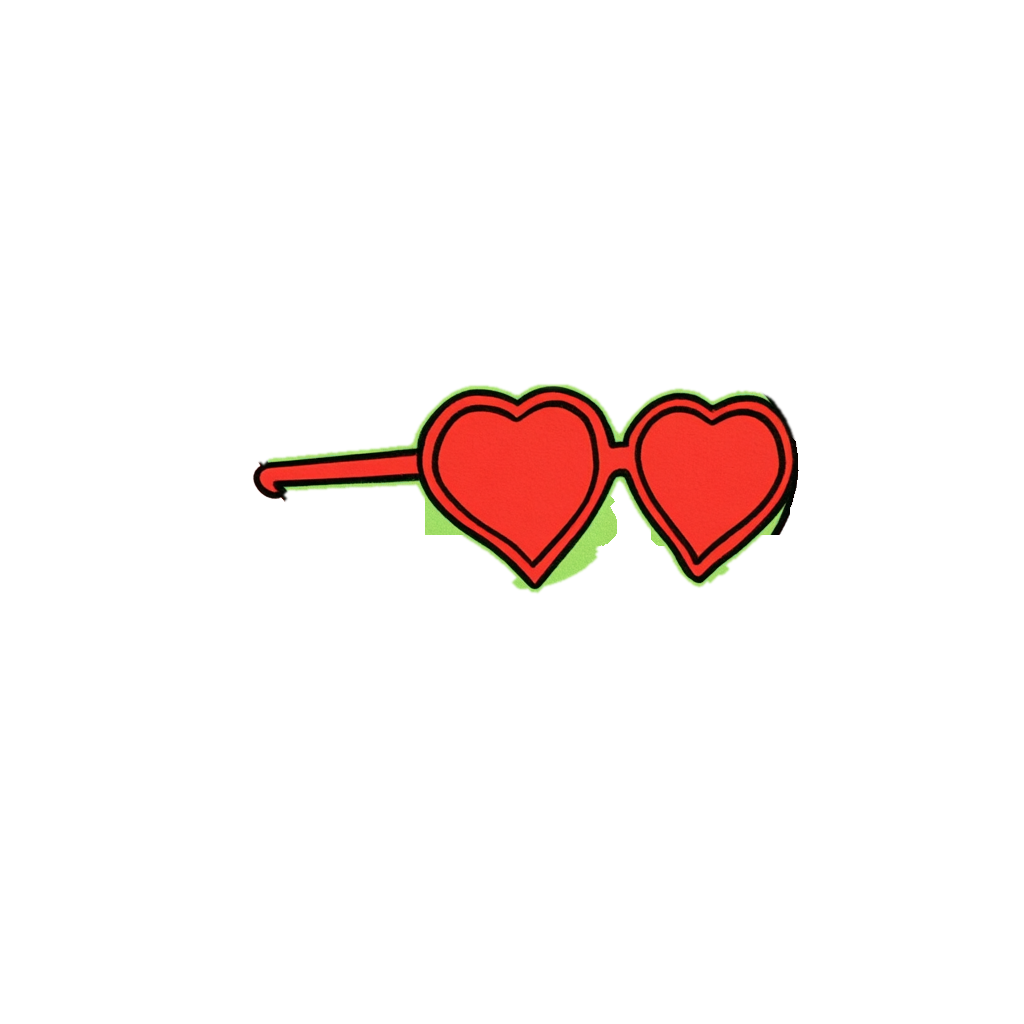
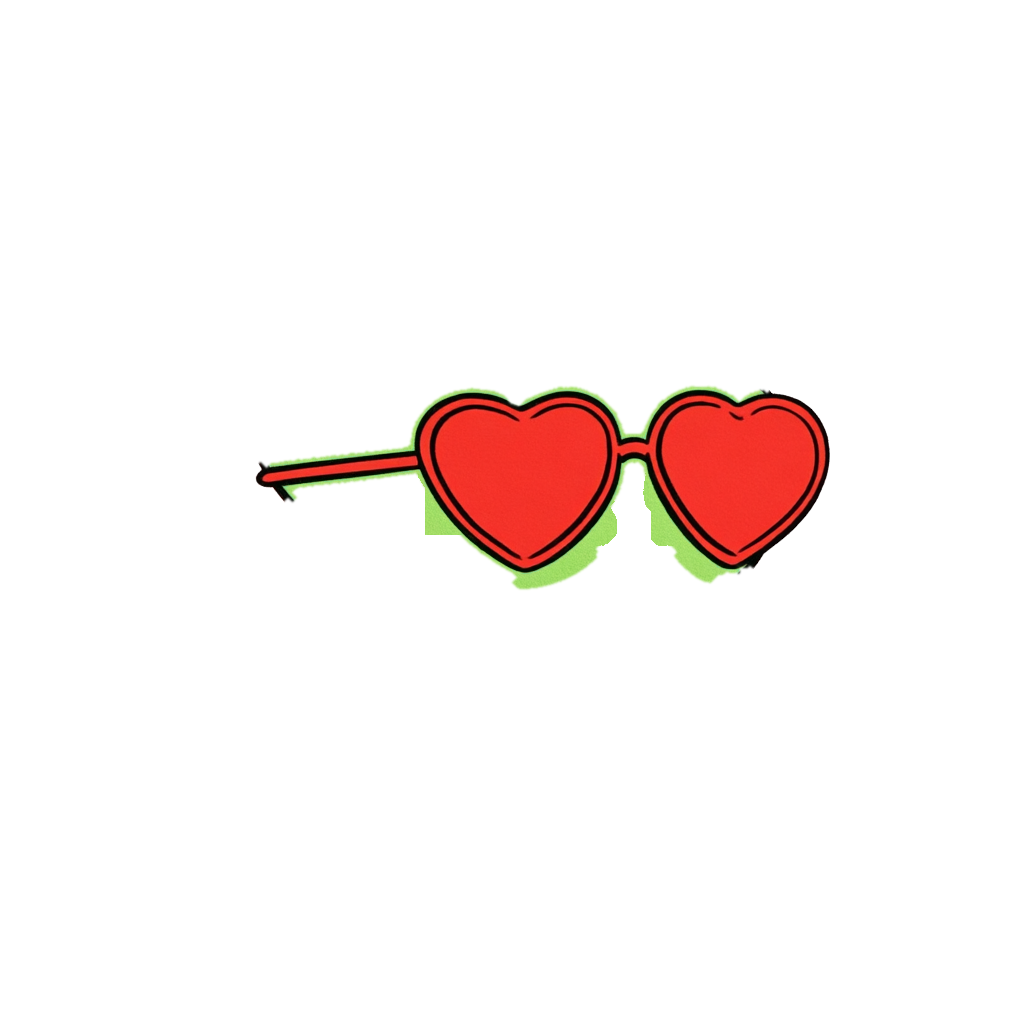
The alien's glasses come past his face, and the party hat has a rim
Closes #48

Changed region(s): [[0.25, 0.375, 0.8125, 0.5938]]

diff --git a/test/thumbnails.test.js b/test/thumbnails.test.js
@@ -231,7 +231,7 @@ test('the alien tiles zoom in on their layer: mouth, eyes, glasses and hats each
   const layers = {
     mouth: { x: 545, y: 617, width: 167, height: 97 },
     eyes: { x: 416, y: 427, width: 383, height: 119 },
-    wayfarers: { x: 246, y: 393, width: 553, height: 197 },
+    wayfarers: { x: 262, y: 384, width: 581, height: 206 },
     cap: { x: 204, y: 70, width: 676, height: 365 },
     crown: { x: 277, y: 105, width: 460, height: 226 },
   };
